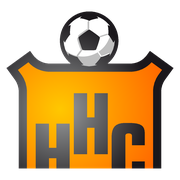
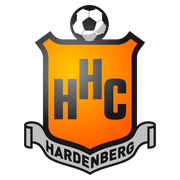
Use the complete HHC crest (with ribbon) everywhere, not a cropped mark
Feedback: the crest-only mark (shield+ball, no "HARDENBERG" ribbon) used
for the nav bar, login screen and favicon read as an incomplete logo.
Switch all three to the full logo instead — nav and login keep its
natural (non-square) aspect ratio so nothing gets squished, and the
favicon/app icons use a version padded into a transparent square canvas
so the ribbon is preserved rather than cropped away.

Claude-Session: https://claude.ai/code/session_01QsSjrFp4jV1FYJTCSbDKXt

diff --git a/src/components/app-shell.tsx b/src/components/app-shell.tsx
@@ -34,7 +34,7 @@ export function AppShell({ children }: { children: React.ReactNode }) {
       <header className="sticky top-0 z-20 border-b border-border bg-surface/95 backdrop-blur">
         <div className="mx-auto flex max-w-6xl items-center gap-6 px-4 py-3">
           <Link href="/dashboard" className="flex items-center gap-2 font-bold">
-            <Image src="/branding/hhc-mark.png" alt="HHC Hardenberg" width={32} height={32} className="h-8 w-8" priority />
+            <Image src="/branding/hhc-logo.png" alt="HHC Hardenberg" width={32} height={40} className="h-10 w-8" priority />
             <span className="hidden sm:inline">Design Editor</span>
           </Link>
           <nav className="flex flex-1 items-center gap-1 overflow-x-auto text-sm">

diff --git a/src/app/login/page.tsx b/src/app/login/page.tsx
@@ -8,11 +8,11 @@ export default function LoginPage() {
       <div className="w-full max-w-sm rounded-xl bg-surface p-8 shadow-lg">
         <div className="mb-6 text-center">
           <Image
-            src="/branding/hhc-mark.png"
+            src="/branding/hhc-logo.png"
             alt="HHC Hardenberg"
-            width={72}
-            height={72}
-            className="mx-auto mb-3 h-[72px] w-[72px]"
+            width={76}
+            height={96}
+            className="mx-auto mb-3 h-24 w-auto"
             priority
           />
           <h1 className="text-xl font-bold">Design Editor</h1>
